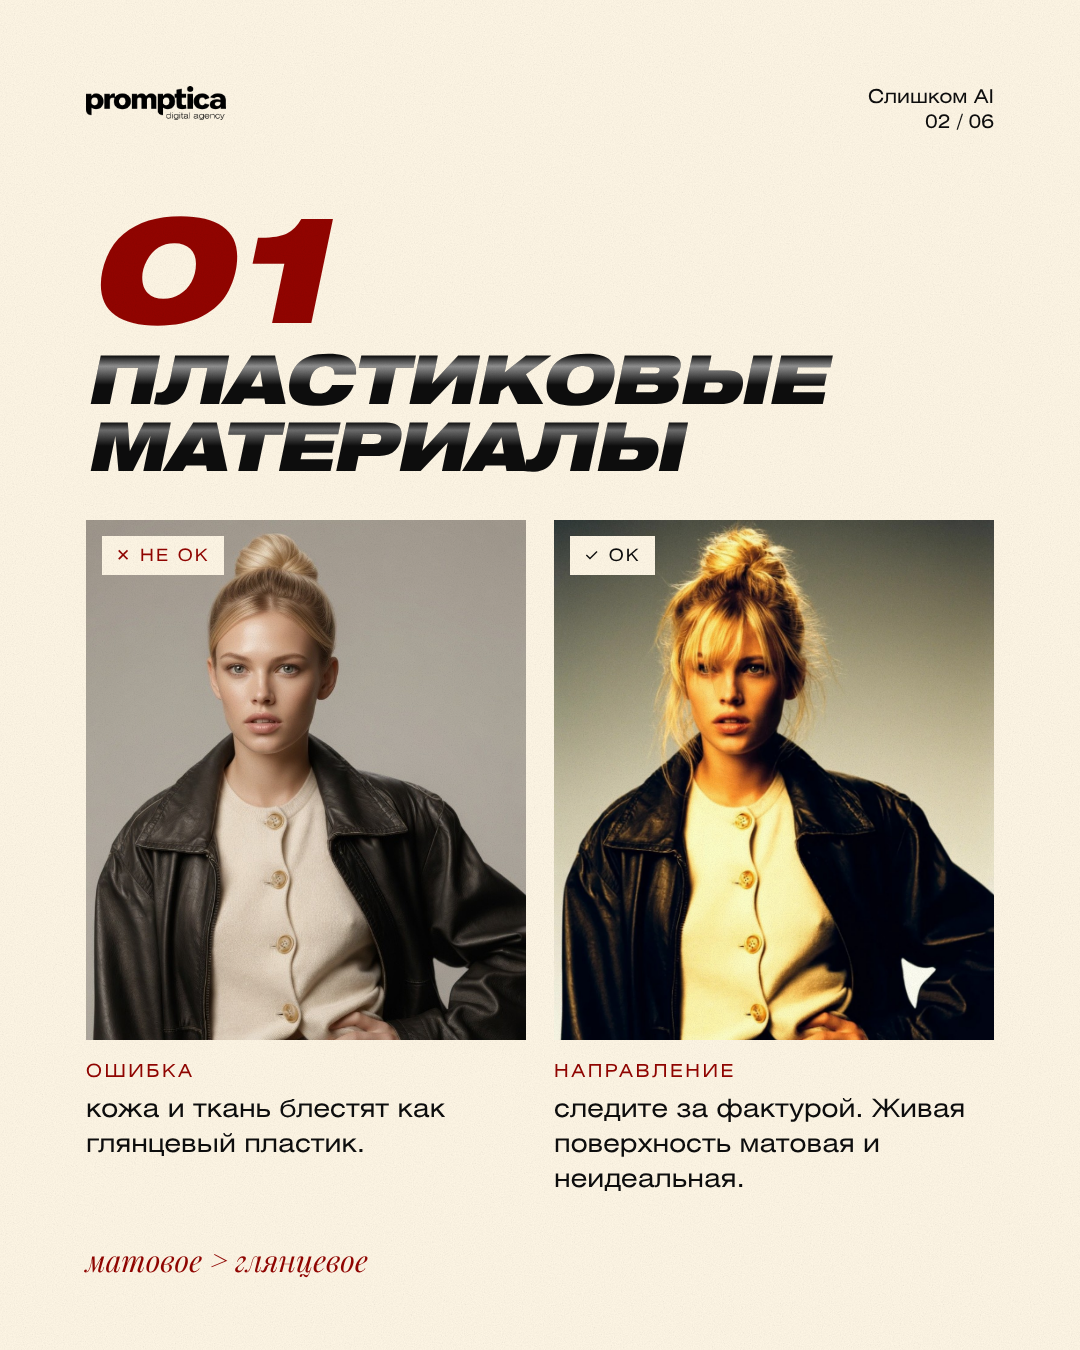
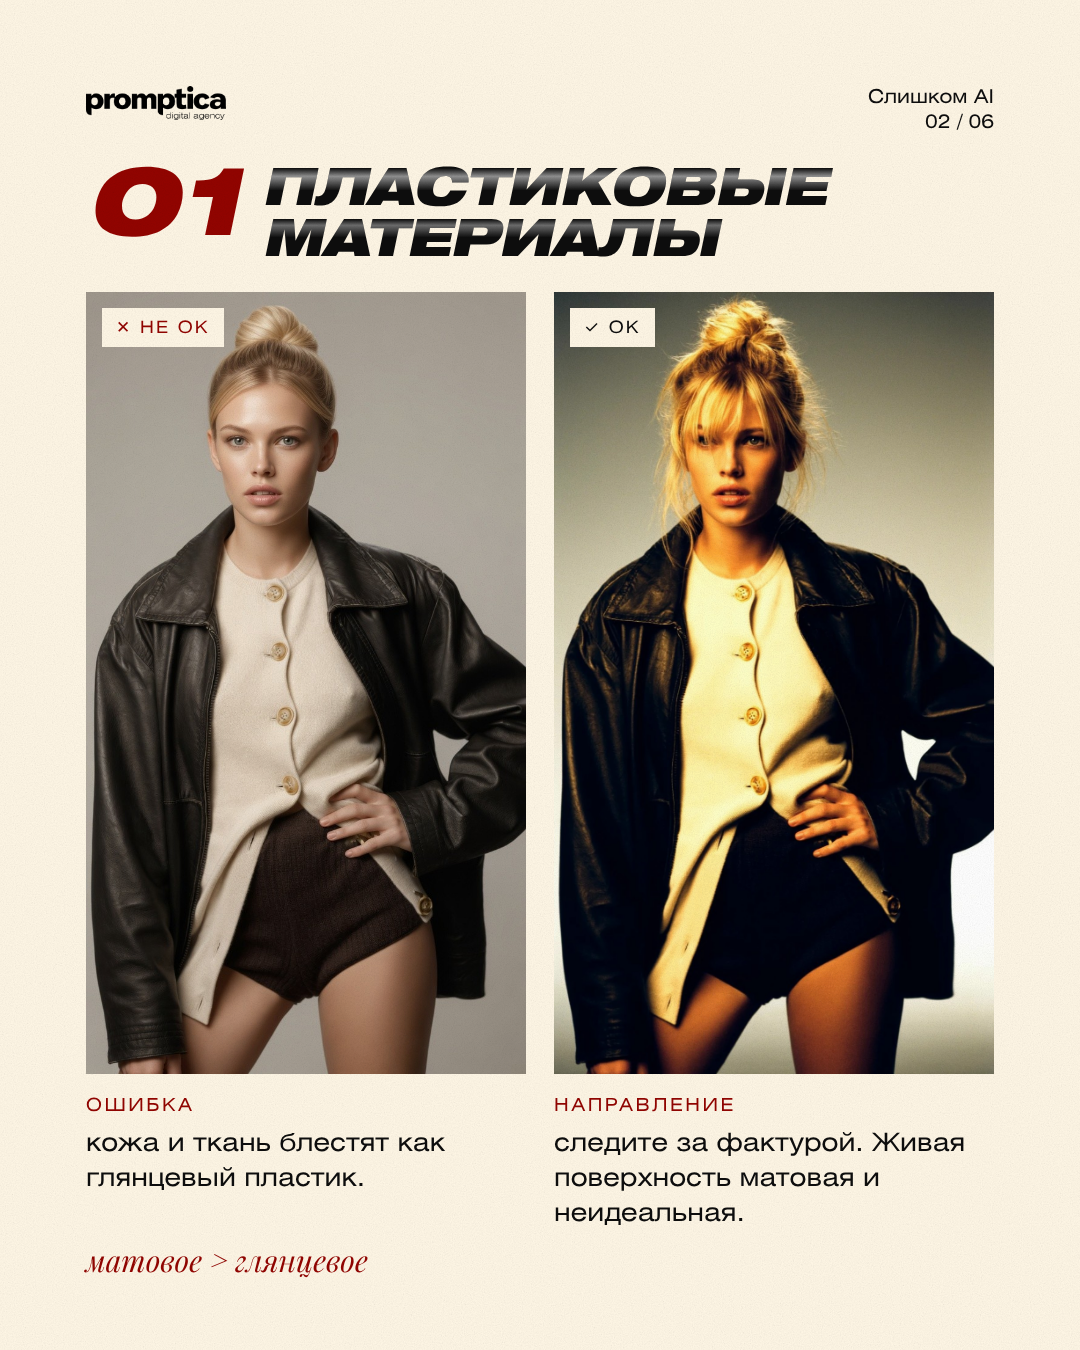
«Слишком AI», слайд 2: фото целиком в формате 9:16, номер и заголовок в одну строку
Claude-Session: https://claude.ai/code/session_01V1NUh11xrVMcB1cs4GV2qz

diff --git a/carousels/promptica-too-ai/02.html b/carousels/promptica-too-ai/02.html
@@ -12,6 +12,12 @@
     .gloss::after { content: attr(data-t); position: absolute; inset: 0; color: transparent;
       background: linear-gradient(180deg, rgba(255,255,255,0) 8%, rgba(255,255,255,.55) 16%, rgba(255,255,255,0) 30%, rgba(255,255,255,0) 58%, rgba(255,255,255,.4) 64%, rgba(255,255,255,0) 76%);
       -webkit-background-clip: text; background-clip: text; pointer-events: none; }
+  
+    /* слайд с фото 9:16: номер и заголовок в одну строку, фото целиком */
+    .num { top: 150px; font-size: 96px; }
+    .title { top: 160px; left: 262px; font-size: 52px; }
+    .pair { top: 292px; }
+    .ph { height: auto; aspect-ratio: 9 / 16; }
   </style>
 </head>
 <body>
